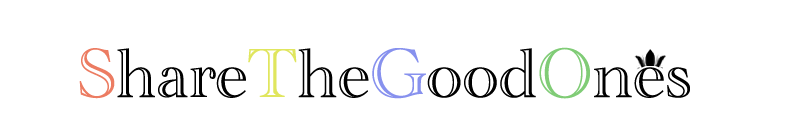
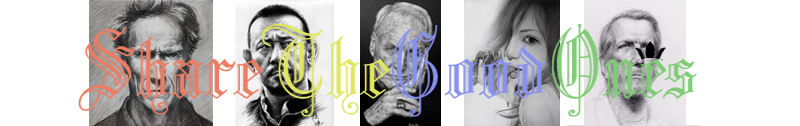
changed a theme:the No.4 changed from circle to cloud。the head images is not dumped, it moved to No.5 theme

diff --git a/src/main/webapp/styles/4.css b/src/main/webapp/styles/4.css
@@ -1,6 +1,6 @@
 /* main elements */
 .headImgArea {
-	background-image: url(../images/bg/head4.png);
+	background-image: url(../images/bg/head4.jpg);
 	background-repeat: no-repeat;
 	background-position: 0px 0px;
 	top: 0px;
